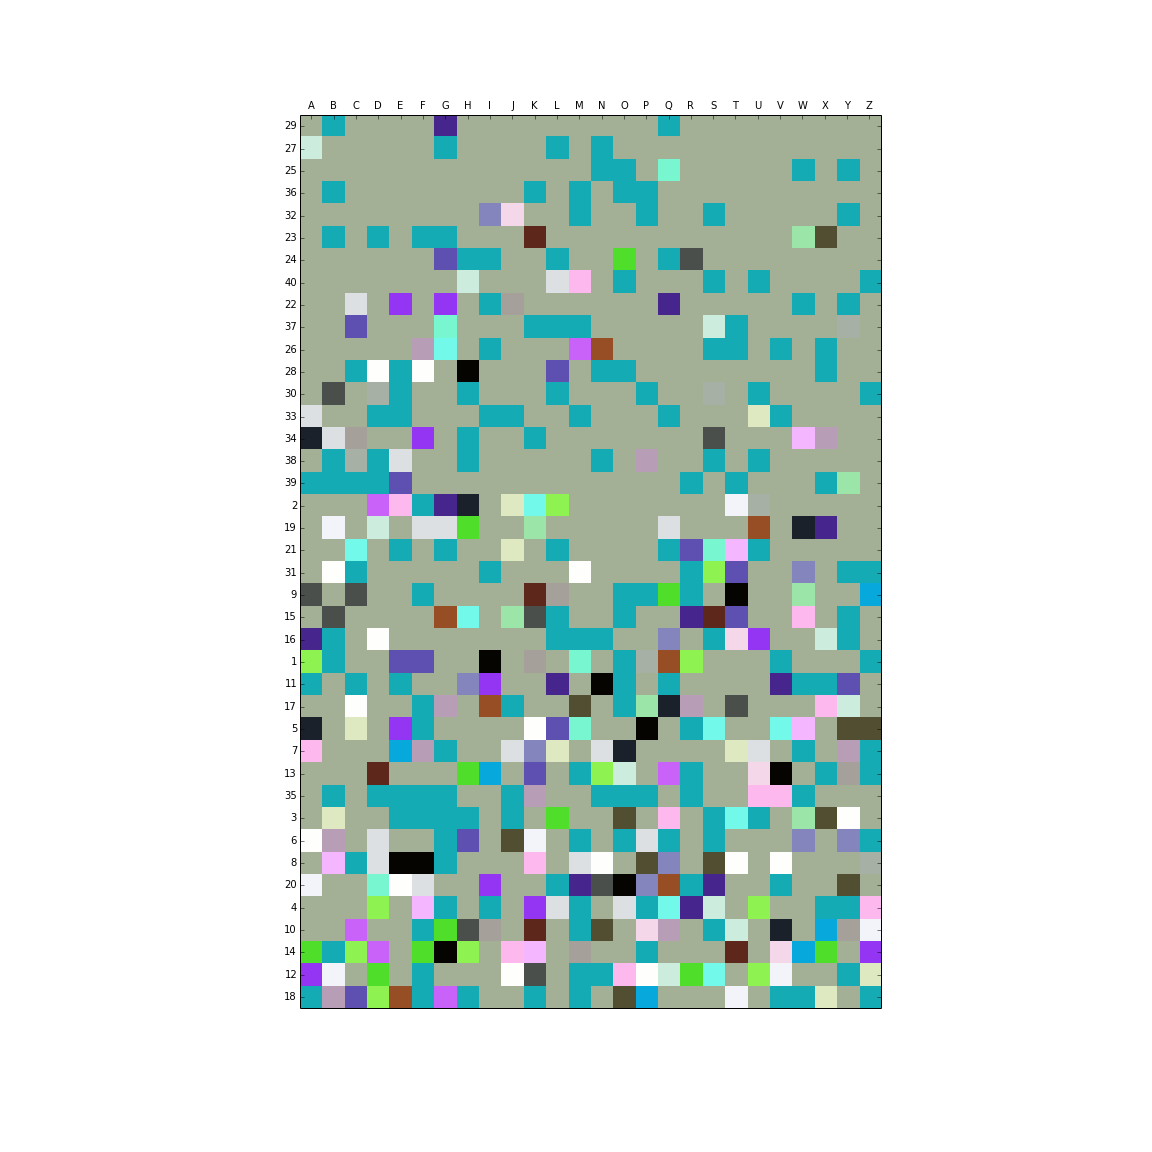
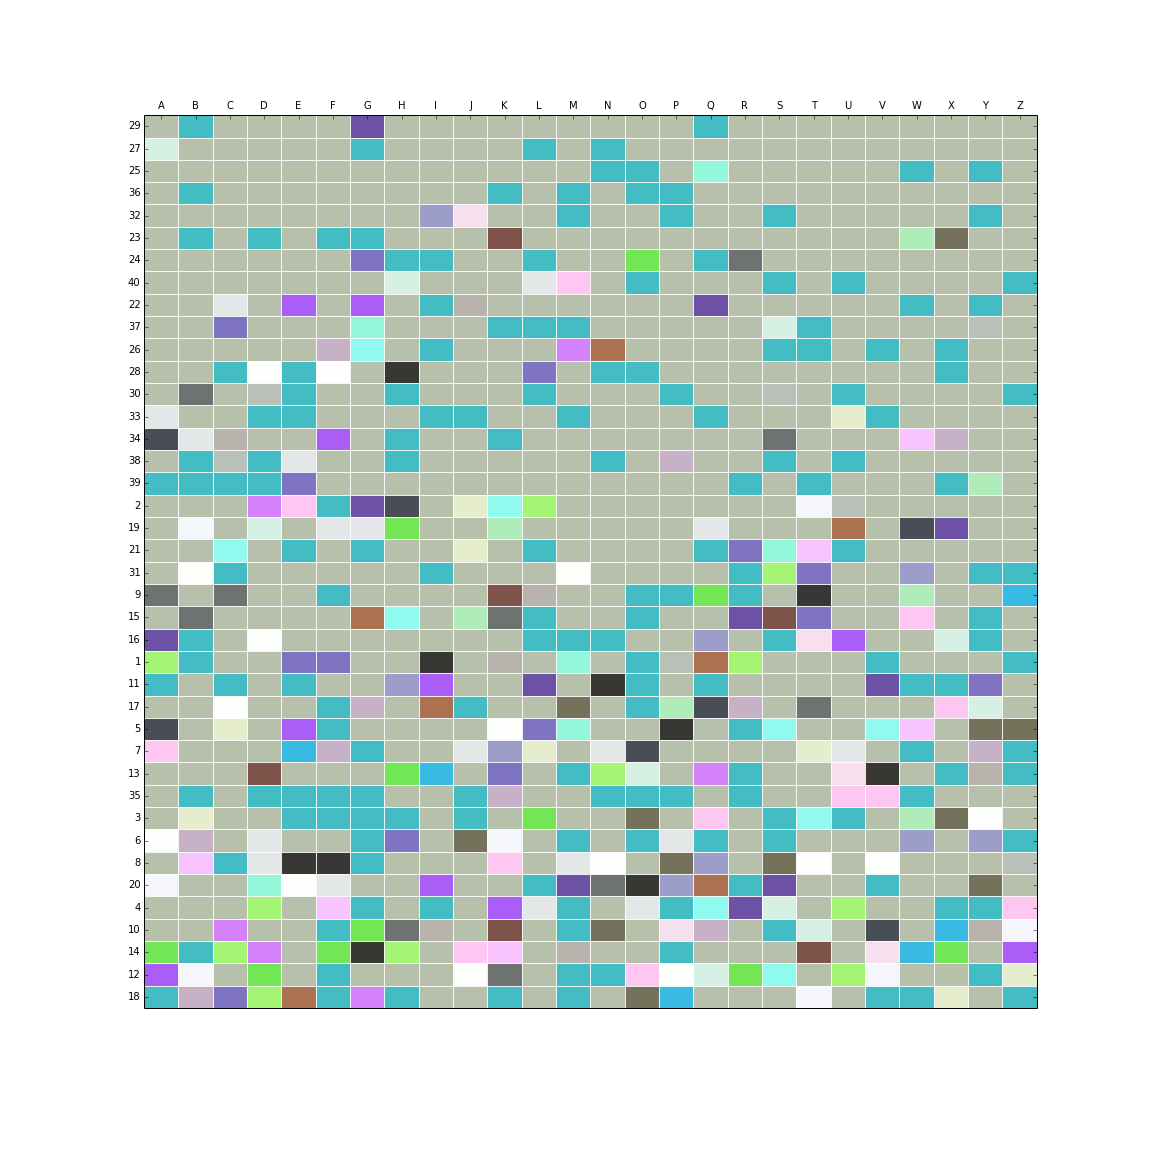
work

diff --git a/plot2Dcluster.py b/plot2Dcluster.py
@@ -71,19 +71,18 @@ def plot_com_original(com_data,rownames,colnames):
     
     # Prepare the discrete colormap for each integer/community.
     cmap = colors.ListedColormap(RGB_color)
-    bounds = [i-0.5 for i in range(n_com+1)]
-    norm = colors.BoundaryNorm(bounds, cmap.N)
     
     # Prepare the plot.
     fig, ax = plt.subplots(figsize=(16,16))
-    xticks = np.arange(0,n_col,1)
-    yticks = np.arange(0,n_row,1)
-    ax.imshow(com_data, cmap=cmap, norm=norm, interpolation='nearest')
+    xticks = np.arange(0,n_col,1)+0.5
+    yticks = np.arange(0,n_row,1)+0.5
+    ax.set_xticks(xticks, minor=False)
+    ax.set_yticks(yticks, minor=False)
+    ax.pcolor(com_data, cmap=cmap, alpha=0.8, edgecolors='white', linewidths=1)
+    ax.invert_yaxis() # This will make the rows start from the top. 
     ax.xaxis.tick_top() # This will make x labels on top.
-    plt.xticks(xticks)
-    plt.yticks(yticks)
-    ax.set_xticklabels(colnames)
-    ax.set_yticklabels(rownames)
+    ax.set_xticklabels(colnames, minor=False)
+    ax.set_yticklabels(rownames, minor=False)
     
     plt.savefig('original.png')
 
@@ -174,28 +173,27 @@ def plot_com_order1(com_data,rownames,colnames,row=True):
         i += 1
         init += step
     RGB_color = [cs.hls_to_rgb(a,b,c) for (a,b,c) in HLS_color]
-    
+
     # Prepare the discrete colormap for each integer/community.
     cmap = colors.ListedColormap(RGB_color)
-    bounds = [i-0.5 for i in range(n_com+1)]
-    norm = colors.BoundaryNorm(bounds, cmap.N)
-    
+
     # Reorder the row names or the column names depending on the logical value of row.
     if (row==True):
         rownames = [rownames[i] for i in row_order]
     else:
         colnames = [colnames[i] for i in col_order]
-    
+     
     # Prepare the plot.
     fig, ax = plt.subplots(figsize=(16,16))
-    xticks = np.arange(0,n_col,1)
-    yticks = np.arange(0,n_row,1)
-    ax.imshow(new_data, cmap=cmap, norm=norm, interpolation='nearest')
+    xticks = np.arange(0,n_col,1)+0.5
+    yticks = np.arange(0,n_row,1)+0.5
+    ax.set_xticks(xticks, minor=False)
+    ax.set_yticks(yticks, minor=False)
+    ax.pcolor(new_data, cmap=cmap, alpha=0.8, edgecolors='white', linewidths=1)
+    ax.invert_yaxis() # This will make the rows start from the top. 
     ax.xaxis.tick_top() # This will make x labels on top.
-    plt.xticks(xticks)
-    plt.yticks(yticks)
-    ax.set_xticklabels(colnames)
-    ax.set_yticklabels(rownames)
+    ax.set_xticklabels(colnames, minor=False)
+    ax.set_yticklabels(rownames, minor=False)
     
     if (row==True):
         plt.savefig('order1'+'_row.png')
@@ -292,8 +290,6 @@ def plot_com_order2(com_data,rownames,colnames):
     
     # Prepare the discrete colormap for each integer/community.
     cmap = colors.ListedColormap(RGB_color)
-    bounds = [i-0.5 for i in range(n_com+1)]
-    norm = colors.BoundaryNorm(bounds, cmap.N)
     
     # Reorder the row names and the column names.
     rownames = [rownames[i] for i in row_order]
@@ -301,14 +297,15 @@ def plot_com_order2(com_data,rownames,colnames):
     
     # Prepare the plot.
     fig, ax = plt.subplots(figsize=(16,16))
-    xticks = np.arange(0,n_col,1)
-    yticks = np.arange(0,n_row,1)
-    ax.imshow(new_data2, cmap=cmap, norm=norm, interpolation='nearest')
+    xticks = np.arange(0,n_col,1)+0.5
+    yticks = np.arange(0,n_row,1)+0.5
+    ax.set_xticks(xticks, minor=False)
+    ax.set_yticks(yticks, minor=False)
+    ax.pcolor(new_data2, cmap=cmap, alpha=0.8, edgecolors='white', linewidths=1)
+    ax.invert_yaxis() # This will make the rows start from the top. 
     ax.xaxis.tick_top() # This will make x labels on top.
-    plt.xticks(xticks)
-    plt.yticks(yticks)
-    ax.set_xticklabels(colnames)
-    ax.set_yticklabels(rownames)
+    ax.set_xticklabels(colnames, minor=False)
+    ax.set_yticklabels(rownames, minor=False)
     
     plt.savefig('order2.png')
 
